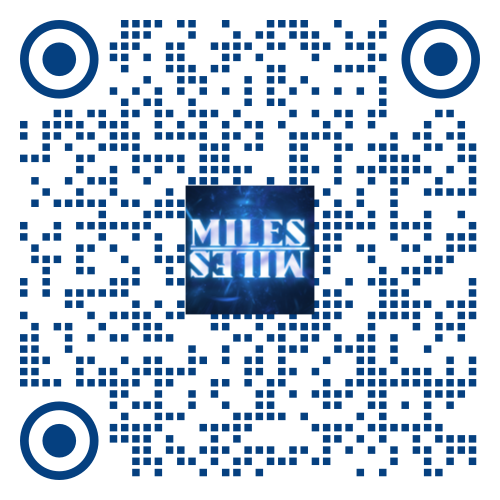
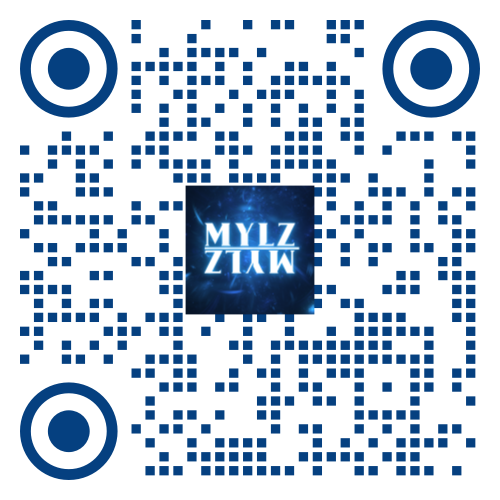
Mylz

diff --git a/src/components/Footer.tsx b/src/components/Footer.tsx
@@ -8,11 +8,11 @@ export default function Footer() {
 
   return (
     <>
-      <footer className="bg-gradient-to-r from-blue-950 via-blue-400 to-sky-950 text-white py-4">
+      <footer className="bg-gradient-to-r from-blue-950 via-blue-400 to-blue-950 text-white py-4">
         <div className="container mx-auto px-4 py-1">
           <div className="grid grid-cols-1 md:grid-cols-3 gap-8">
             <div>
-              <h3 className="text-xl font-bold mb-4 ml-10">Miles</h3>
+              <h3 className="text-xl font-bold mb-4 ml-10">Mylz</h3>
               <h3 className="text-white py-4 ml-10">
                 Premium quality hoodies for your journey through life mile by mile.
               </h3>

diff --git a/src/components/Header/Header.tsx b/src/components/Header/Header.tsx
@@ -16,7 +16,7 @@ export default function Header({ filters, setFilters }: HeaderProps) {
 
   return (
     <>
-      <header className="bg-gradient-to-r from-blue-950 via-blue-400 to-sky-950 sticky top-0 z-40 shadow-md">
+      <header className="bg-gradient-to-r from-blue-950 via-blue-400 to-blue-950 sticky top-0 z-40 shadow-md">
         <div className="container mx-auto px-4 py-3">
           <div className="flex items-center justify-between gap-4 flex-wrap sm:flex-nowrap">
             <div className="flex items-center space-x-2 flex-shrink-0">

diff --git a/index.html b/index.html
@@ -5,7 +5,7 @@
     <link rel="icon" type="image/png" href="/favicon.png" />
     <meta name="viewport" content="width=device-width, initial-scale=1.0" />
     <link href="/index.css" rel="stylesheet">
-    <title>Miles</title>
+    <title>Mylz</title>
   </head>
   <body>
     <div id="root"></div>
